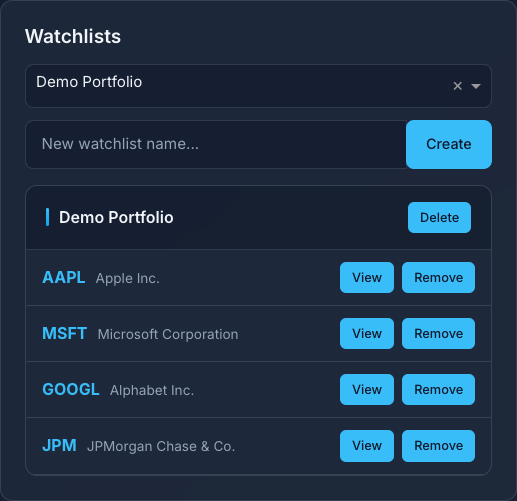
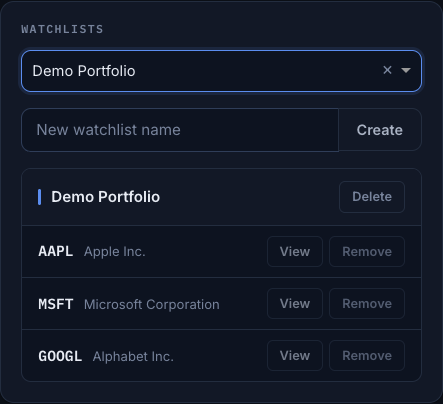
Update README and screenshots
- Changed the dashboard screenshot label from "Dashboard search" to "Stock dashboard" for clarity.
- Removed the outdated chart period pills screenshot.
- Updated the stock dashboard screenshot to reflect recent changes.

diff --git a/README.md b/README.md
@@ -24,9 +24,9 @@ A full-stack web app taken end to end — designed, built, deployed, and running
 
 ## 🖼 Screenshots
 
-| Dashboard search | 
+| Stock dashboard |
 |---|
-| ![Dashboard search](docs/screenshots/dashboard-search.png) |
+| ![Stock dashboard](docs/screenshots/dashboard-search.png) |
 
 | Watchlist management |
 |---|
